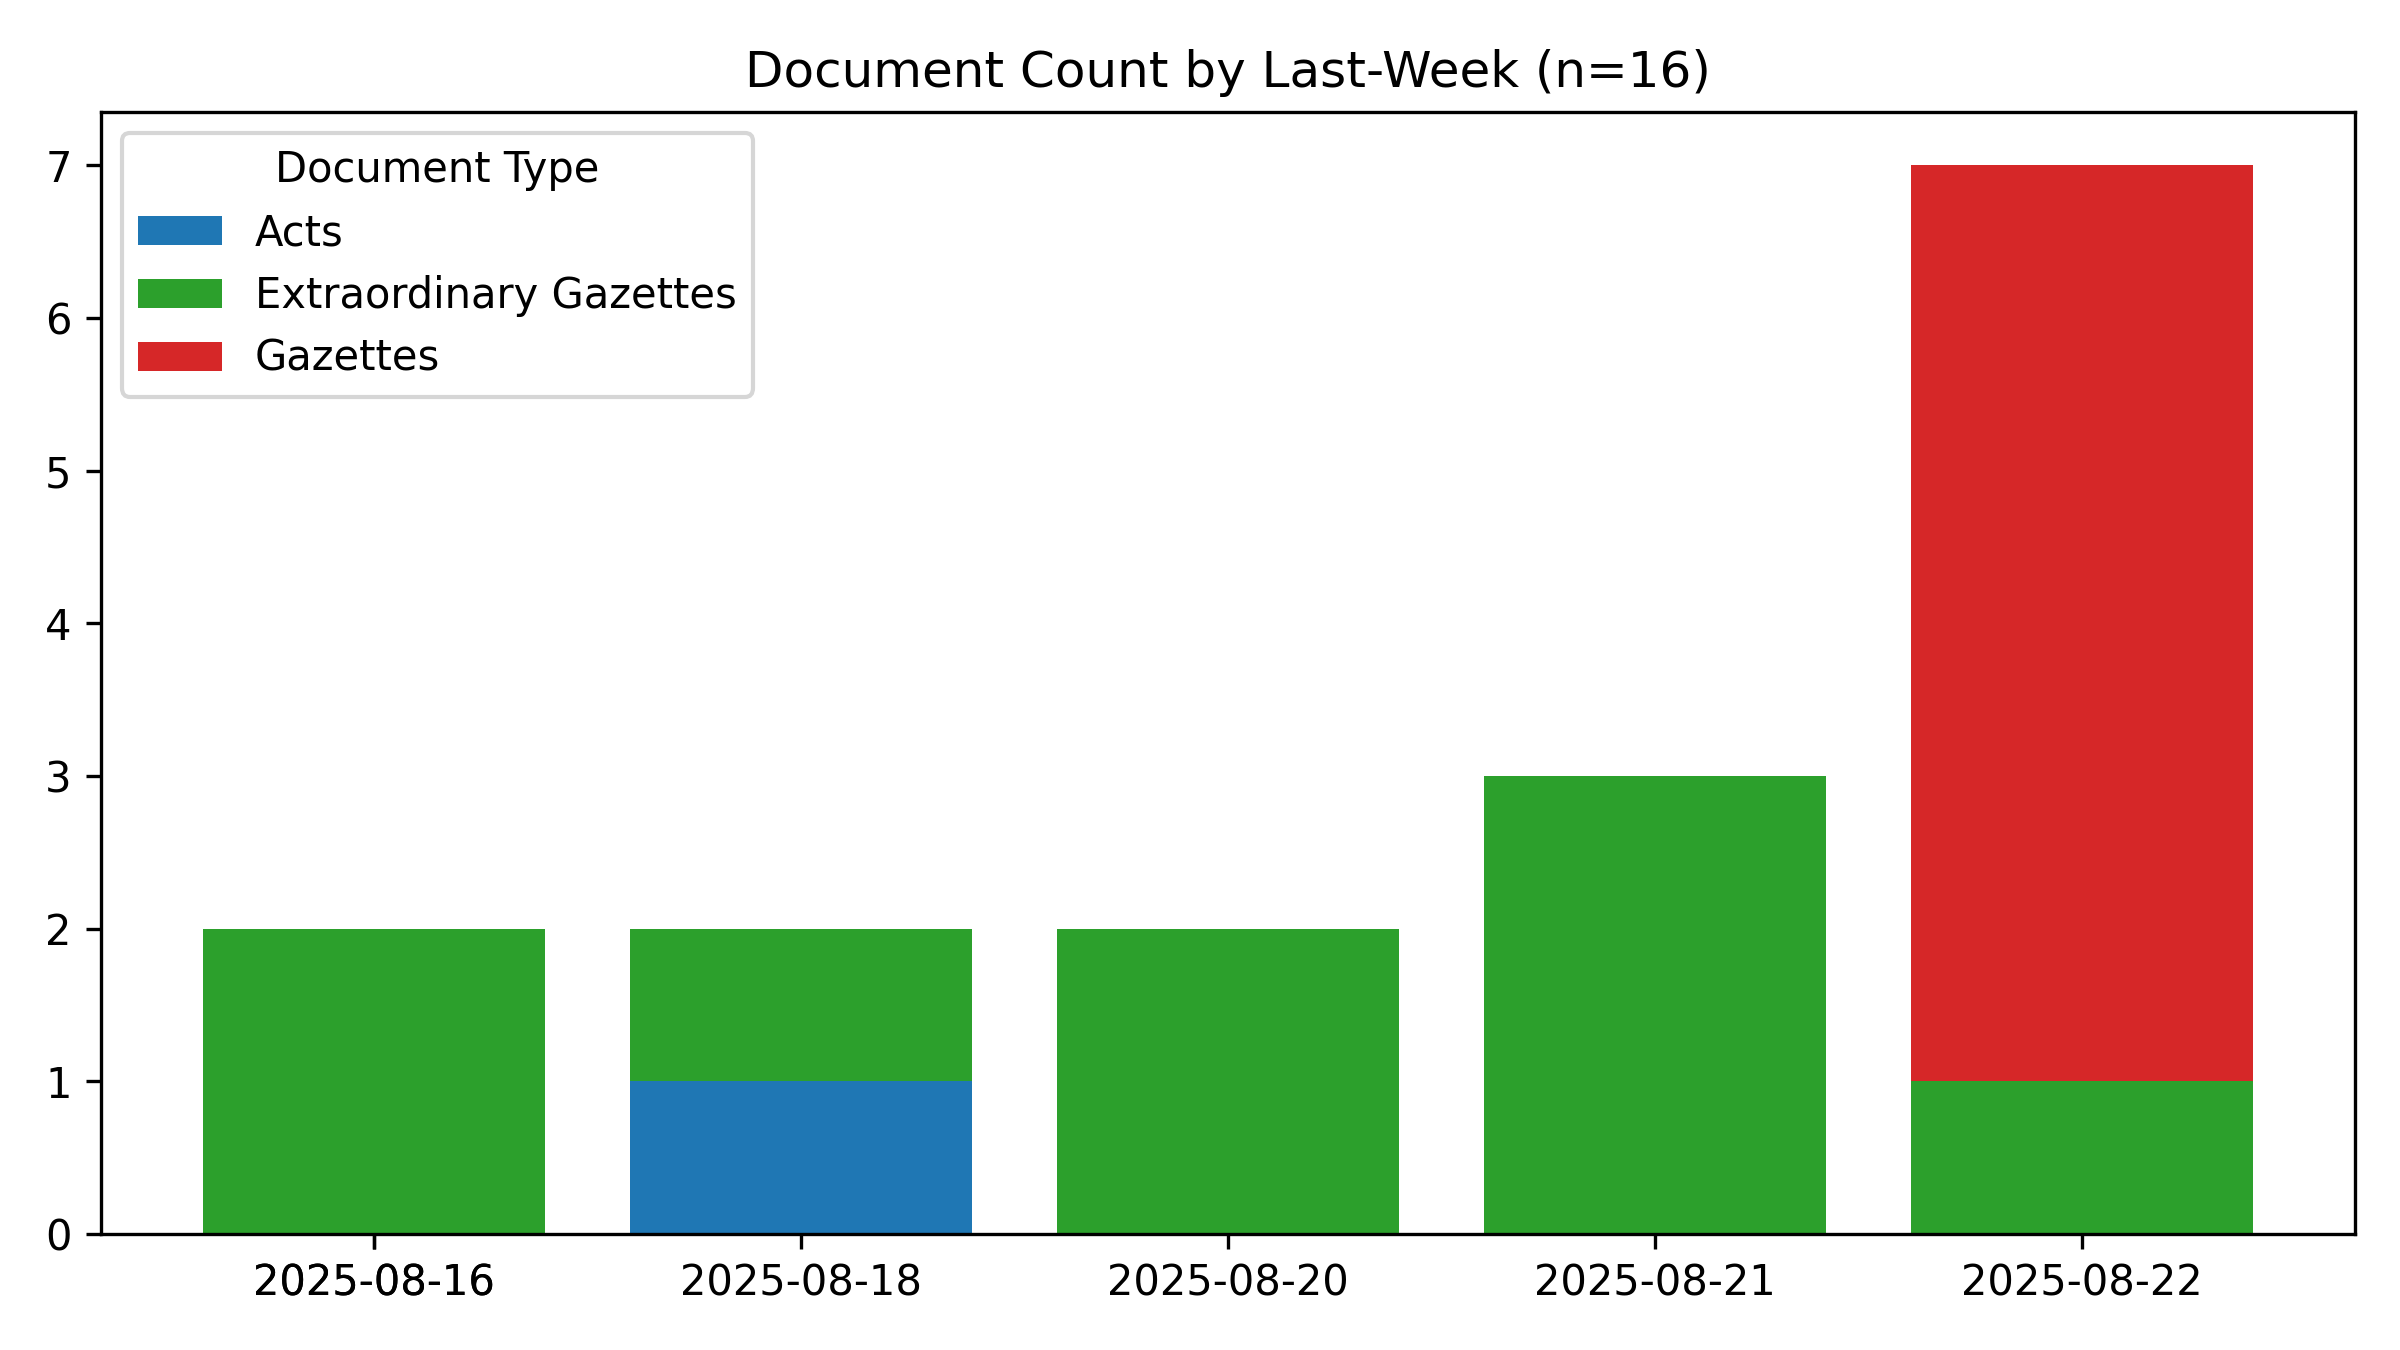
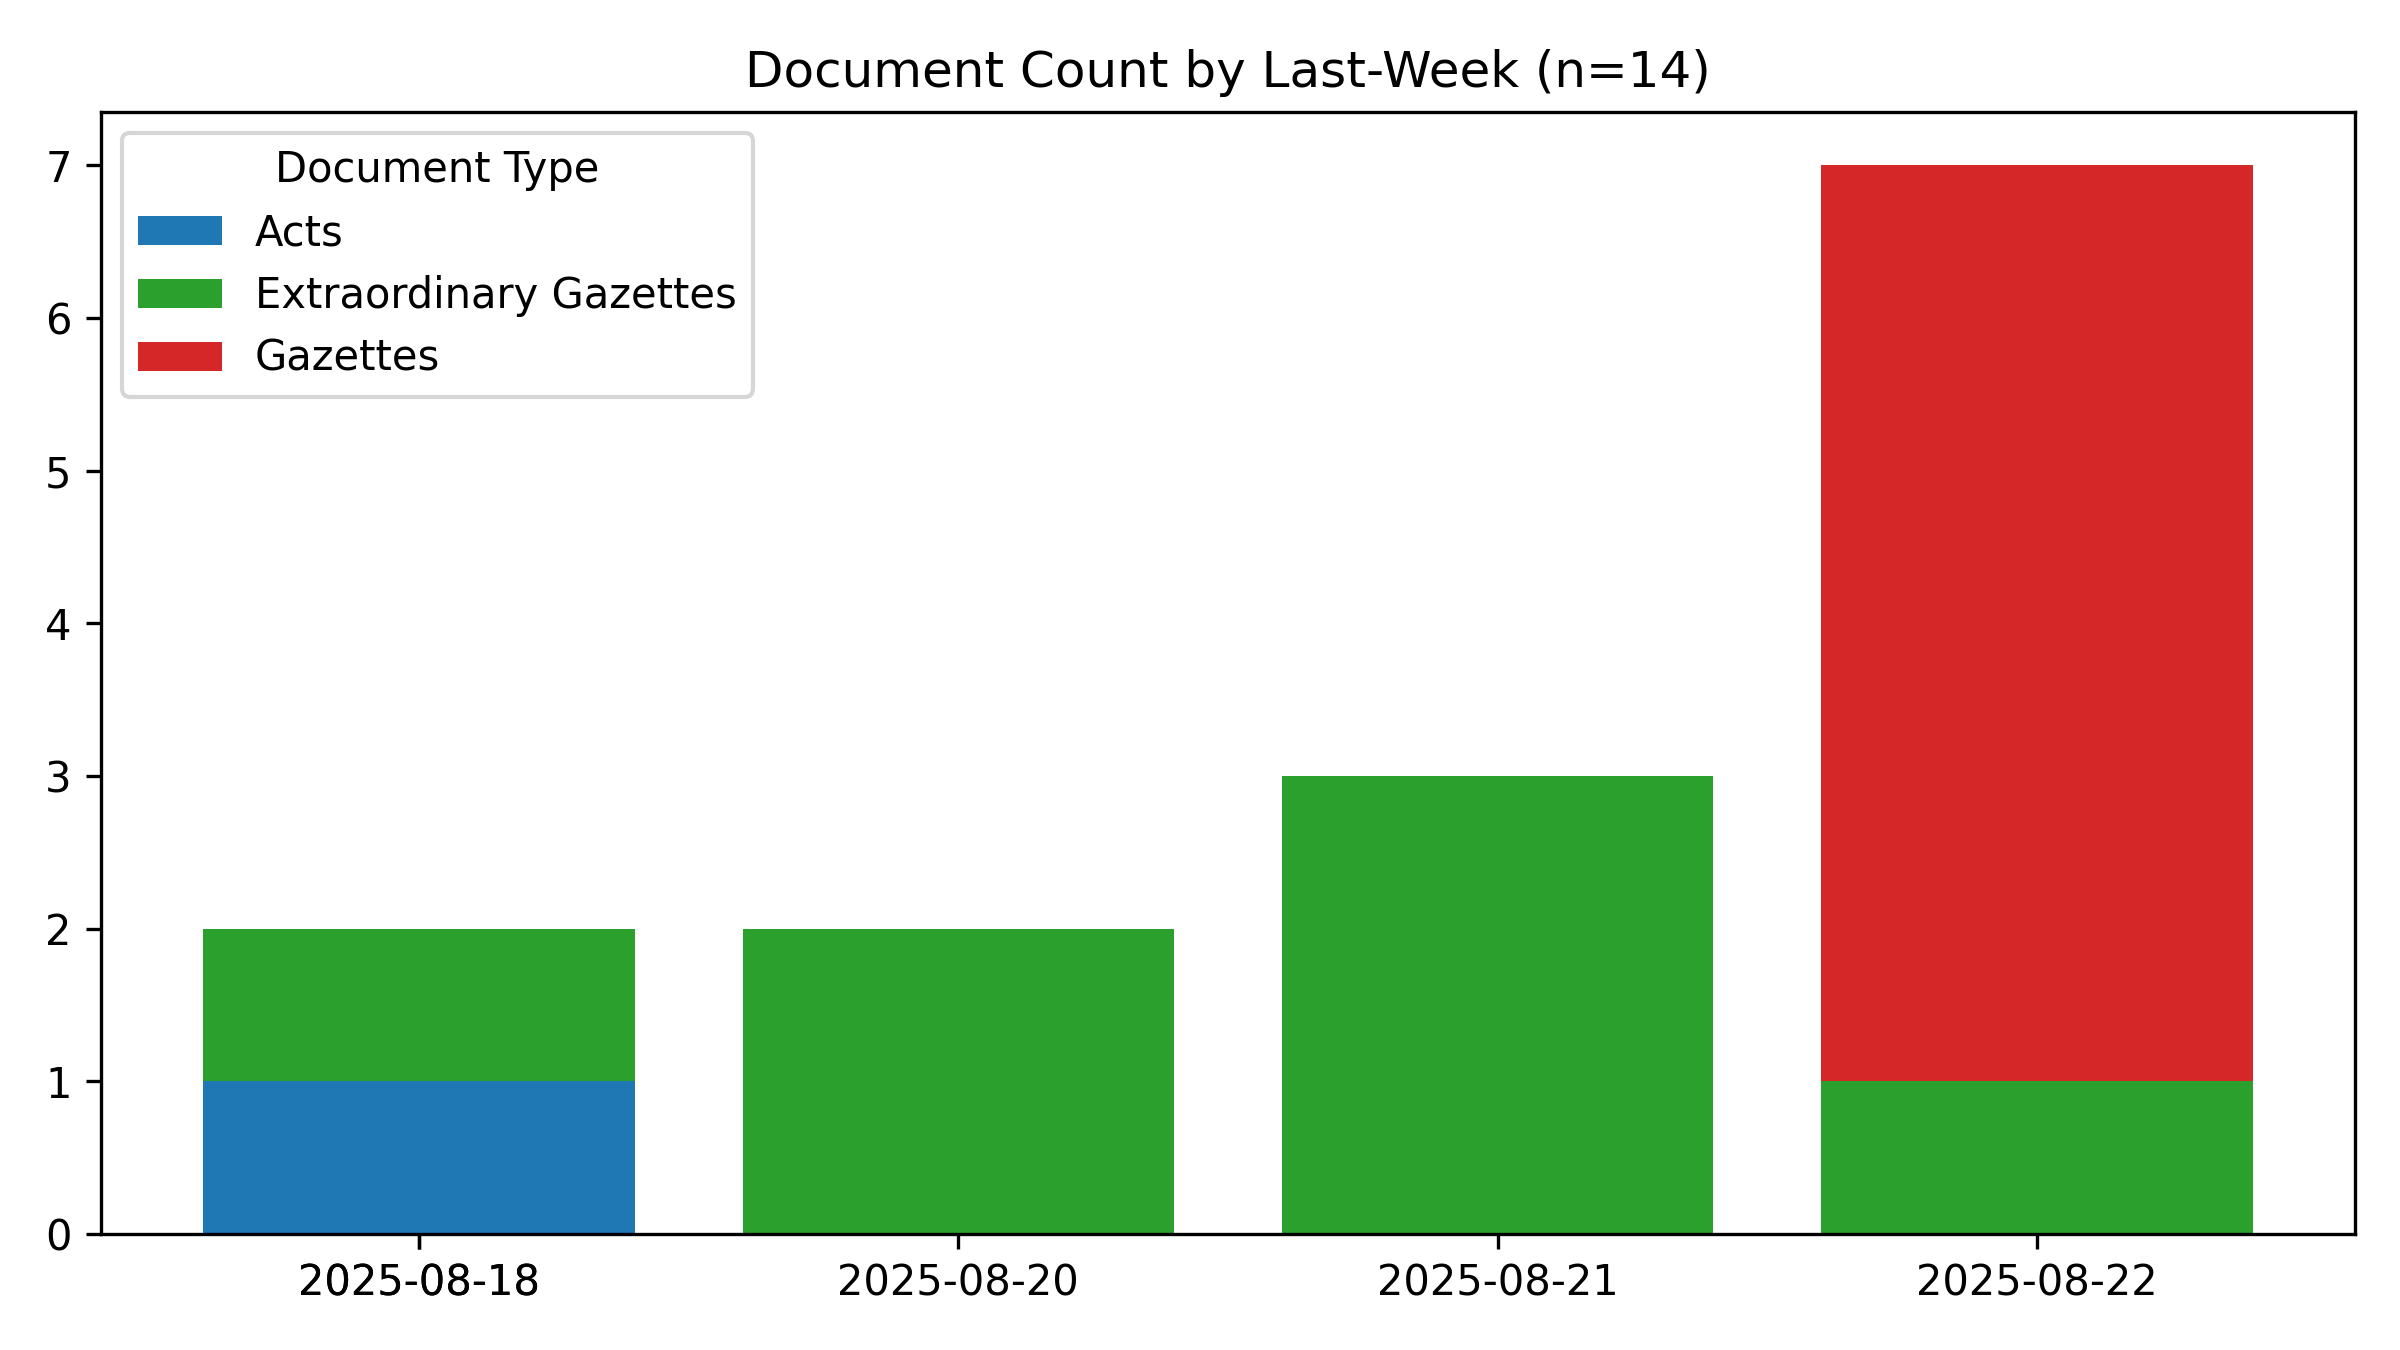
🤖 [build_readme.yml] 2025-08-24-0017

Changed region(s): [[0.0625, 0.1244, 0.9062, 0.9644], [0.6875, 0.0311, 0.7188, 0.0622]]

diff --git a/README.md b/README.md
@@ -1,6 +1,6 @@
 # #SriLanka 🇱🇰 - Legal Documents #Dataset
 
-*Last Updated **2025-08-24 05:13:05**.*
+*Last Updated **2025-08-24 05:47:20**.*
 
 **44,404** documents (24.3 MB), from 1981-01-22 to 2025-08-22.
 
@@ -54,7 +54,7 @@ For best results, use a desktop browser.
 
 ## Recent Documents (Published during the last 7 days)
 
-**16** Documents
+**14** Documents
 
 - 🚨 [2025-08-22] [Dept. of Census and Statistics- National Consumer Price Index- July 2025](https://github.com/nuuuwan/lk_legal_docs_data/tree/data_2020s/data/extra-gazettes/2025/2450-43)
 - 📢 [2025-08-22] [Land Section](https://github.com/nuuuwan/lk_legal_docs_data/tree/data_2020s/data/gazettes/2025/2025-08-22-land-section)
@@ -70,5 +70,3 @@ For best results, use a desktop browser.
 - 🚨 [2025-08-20] [Presidential Secretariat- Establishment of a Presidential Task Force for the Implementation of the Sri Lanka Tourism Development Programme](https://github.com/nuuuwan/lk_legal_docs_data/tree/data_2020s/data/extra-gazettes/2025/2450-27)
 - 🚨 [2025-08-18] [Sri Lanka Customs- Rates of Exchange with effect from 18.08.2025 to 24.05.2025](https://github.com/nuuuwan/lk_legal_docs_data/tree/data_2020s/data/extra-gazettes/2025/2450-01)
 - 🏛 [2025-08-18] [Sri Lanka Electricity (Amendment)](https://github.com/nuuuwan/lk_legal_docs_data/tree/data_2020s/data/acts/2025/14-2025)
-- 🚨 [2025-08-16] [M/of Public Administration- Appointments Under the Notaries Ordinance](https://github.com/nuuuwan/lk_legal_docs_data/tree/data_2020s/data/extra-gazettes/2025/2449-72)
-- 🚨 [2025-08-16] [M/ of Public Administration- Appointments Under the Notaries Ordinance](https://github.com/nuuuwan/lk_legal_docs_data/tree/data_2020s/data/extra-gazettes/2025/2449-71)
